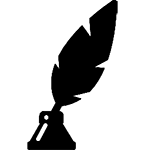
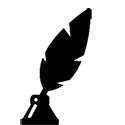
Added fade in and out methods and navbars

Changed region(s): [[0.144, 0.0, 0.792, 1.0]]

diff --git a/index.html b/index.html
@@ -24,7 +24,7 @@
 
 <body>
 	<!-- navbar -->
-	<nav class="navbar navbar-default navbar-fixed-top navbar-inverse">
+	<nav class="navbar navbar-default navbar-fixed-top navbar-inverse" id="topNavbar">
 		<div class="container-fluid">
 			<!-- Brand and toggle get grouped for better mobile display -->
 			<div class="navbar-header">
@@ -34,14 +34,14 @@
 					<span class="icon-bar"></span>
 					<span class="icon-bar"></span>
 				</button>
-				<a class="navbar-brand" href="#">Pieku</a>
+				<a class="navbar-brand" href="#"></a>
 			</div>
 
 			<!-- Collect the nav links, forms, and other content for toggling -->
 			<div class="collapse navbar-collapse" id="bs-example-navbar-collapse-1">
 				<ul class="nav navbar-nav navbar-right">
-					<li><a href="#">About </a></li>
-					<li><a href="#">Piekus</a></li>
+					<li><a href="#about">About </a></li>
+					<li><a href="#piekus">Piekus</a></li>
 					<li><a href="#">Contact</a></li>
 				</ul>
 			</div><!-- /.navbar-collapse -->
@@ -51,7 +51,7 @@
 	<!-- Header -->
 	<header id="top" class="header">
 		<div class="text-vertical-center">
-			<h1>Pieku</h1>
+			<h1 style="margin-top: 60px">Pieku</h1>
 			<h3>For the love of poetry and pie.</h3>
 			<br>
 			<a class="btn btn-dark btn-lg" href="#" role="button" data-toggle="modal" data-target="#myModal">Create a pieku!</a>
@@ -87,7 +87,7 @@
 				</div>
 
 	<!-- Description section -->
-	<div class="description-row text-center">
+	<div class="description-row text-center" id="about">
 		<div class="container-fluid">
 			<div class="col-md-2"></div>
 			<div class="col-md-2">
@@ -114,15 +114,46 @@
 			<div class="col-md-2"></div>
 		</div>
 	</div>
+	<hr id="piekus">
 
 	<!-- Pieku list layout -->
+	<div class="col-md-12 space"></div>
 	<div class="pieku-list-layout">
+		<h3 class="col-md-12 text-center">List of piekus</h3>
 		<div class="container-fluid">
-			<div class="col-md-2"></div>
-			<div class="col-md-2 pieku-list-nav"></div>
+			<!-- space -->
 			<div class="col-md-1"></div>
-			<div class="col-md-5" id="pieku-list-panel"></div> 
+			<!-- left-aligned navbar -->
+			<div class="col-md-3 pieku-list-nav">
+				<nav class="navbar navbar-default leftbar" id="leftNavbar" role="navigation">
+					<!-- Brand and toggle get grouped for better mobile display -->
+				  <div class="navbar-header leftbar">
+				    <button type="button" class="navbar-toggle" data-toggle="collapse" data-target=".navbar-ex1-collapse">
+				      <span class="sr-only">Toggle navigation</span>
+				      <span class="icon-bar"></span>
+				      <span class="icon-bar"></span>
+				      <span class="icon-bar"></span>
+				    </button>
+				    <a class="navbar-brand" href="#">Pieku</a>
+				  </div>
+				  <!-- Collect the nav links, forms, and other content for toggling -->
+				  <div class="collapse navbar-collapse navbar-ex1-collapse leftbar">
+				    <ul class="nav navbar-nav leftbar">
+				      <li><a href="">About</a></li>
+				      <li class="active"><a href="">Piekus</a></li>
+				      <li><a href="">Contact</a></li>
+				    </ul>
+				  </div><!-- /.navbar-collapse -->
+				</nav>
+			</div>
+			<!-- space -->
+			<div class="col-md-1"></div>
+			<!-- Where new pieku posts are added -->
+			<div class="col-md-4" id="pieku-list-panel"></div> 
+			<!-- Addition features of each post -->
 			<div class="col-md-2"></div>
+			<!-- space -->
+			<div class="col-md-1"></div>
 		</div>
 	</div>
 
@@ -140,20 +171,27 @@
 
 	<!-- underscore template -->
 	<script type="text/template" id="post-template">
-		<div class="panel panel-default">
-			<div class="panel-heading text-center">
+		<div class="panel panel-default col-md-12 text-center">
+			<div class="panel-heading">
 				<p>
 					<h1><%= title %></h1>
 				</p>
 				<p>	
 					<span><%= author %></span>
 				</p>
-			</div>	
-			<div class="panel-body piekuListImg">
-				<p>
-					<span><%= post %></span>
-				</p>
 			</div>
+			<table class="table table-condensed">
+				<div class= "panel-body">	
+					<tr>
+						<th>
+							<img class="piekuListImg"></img>
+						<th>
+						<th>
+							<span><%= post %></span>
+						</th>
+					</tr>
+				</div>
+			</table>
 		</div>
 	</script>
 

diff --git a/style.css b/style.css
@@ -6,6 +6,7 @@ body {
 }
 
 body {
+	position: relative;
     font-family: "Source Sans Pro","Helvetica Neue",Helvetica,Arial,sans-serif;
     color: black;
 }
@@ -15,6 +16,7 @@ body {
     display: table-cell;
     text-align: center;
     vertical-align: middle;
+    margin-top: 40px;
 }
 
 .text-vertical-center h1 {
@@ -72,6 +74,24 @@ hr.small {
     -o-background-size: cover;
 }
 
+.navbar>.container .navbar-brand, .navbar>.container-fluid .navbar-brand {
+	background: url(img/pieku-logo-set.png) no-repeat;
+	background-size: 100%;
+	margin-left: 5px;
+	margin-top: 8px;
+	margin-bottom: -10px;
+}
+
+.navbar>.container .navbar-brand, .navbar>.container-fluid .navbar-brand:hover,
+.navbar>.container .navbar-brand, .navbar>.container-fluid .navbar-brand:focus,
+.navbar>.container .navbar-brand, .navbar>.container-fluid .navbar-brand:active {
+	background: url(img/pieku-logo-hover.png) no-repeat;
+	background-size: 100%;
+	margin-left: 5px;
+	margin-top: 8px;
+	margin-bottom: -10px;
+}
+
 /*Decription section*/
 .description-row {
 	padding-top: 100px;
@@ -81,51 +101,95 @@ hr.small {
 #haikuImg {
 	background: url(img/haiku-icon.png) no-repeat;
 	display: block;	
-	width: 175px;
- 	height: 175px;
- 	margin-left: 51px;
-}
-
-#piekuImg {
-	background: url(img/pieku-icon.png) no-repeat;
-	display: block;	
- 	width: 200px;
-  	height: 200px;
-  	margin-left: 51px;
-  	background-size: 70%;
+	width: 125px;
+ 	height: 125px;
+ 	margin-left: 61px;
+ 	margin-bottom: 30px;
 }
 
 #pieImg {
 	background: url(img/pie-icon.png) no-repeat;	
 	display: block;		
-	width: 175px;
-  	height: 175px;
- 	margin-left: 28px; 
- 	background-size: 70%; 	
+	width: 125px;
+  	height: 125px;	
+  	margin-left: 54px;
+  	margin-bottom: -10px;
+  	margin-top: 30px;
+}
+
+#piekuImg {
+	background: url(img/pieku-icon.png) no-repeat;
+	display: block;	
+ 	width: 125px;
+  	height: 125px;
+  	margin-left: 64px;
+  	margin-bottom: -10px;
+  	margin-top: 30px;
 }
 
 p.symbol {
 	font-size: 4em;
-	margin-top: 40px;
+	margin-top: 70px;
+}
+
+#piekus {
+	margin-bottom: 50px;
+}
+
+/*navbar left*/
+@media (min-width: 768px) {
+	.navbar-collapse.leftbar {
+	height: auto;
+	border-top: 0;
+	box-shadow: none;
+	max-height: none;
+	padding-left:0;
+	padding-right:0;
+	}
+	.navbar-collapse.collapse.leftbar {
+	display: block !important;
+	width: auto !important;
+	padding-bottom: 0;
+	overflow: visible !important;
+	}
+	.navbar-collapse.in .leftbar{
+	overflow-x: visible;
+	}
+
+	.navbar.leftbar
+	{
+		max-width:200px;
+		margin-right: 0;
+		margin-left: 0;
+	}	
+
+	.navbar-nav.leftbar,
+	.navbar-nav.leftbar > li,
+	.navbar-left.leftbar,
+	.navbar-right.leftbar,
+	.navbar-header.leftbar
+	{float:none !important;}
+
 }
 
 /*pieku list layout section*/
+.space {
+	margin-top: 50px;
+}
 .piekuListImg {
 	background: url(img/pieku-icon.png) no-repeat;
+	border: 0;
 	display: block;	
- 	width: 200px;
-  	height: 200px;
-  	margin-top: 40px;
-  	margin-left: 51px;
-  	background-size: 70%;
+ 	width: 125px;
+  	height: 125px;
+  	border-top-color: none;
 }
-.panel-body {
-	margin-top: 80px;
-	display: block;
+
+table {
+	border-top-color: none;
 }
 
 .panel-body p {
-	width: 200px;
-	margin-left: 250px;
+	display: block;
 }
 

diff --git a/script.js b/script.js
@@ -3,8 +3,17 @@ $(function() {
 	// form to create new pieku post
 	var $newPost = $('#new-post');
 
+	// about button scrollspy
+	var$aboutBtn = $('#about-btn');
+
 	// element to hold the list of piekus
-	var $pieList = $('#pieku-list-panel')
+	var $pieList = $('#pieku-list-panel');
+
+	// Top navbar element
+	var $topNavbar = $('#topNavbar');
+
+	// Left navbar element
+	var $leftNavbar = $('#leftNavbar');
 	
 	// post template
 	var postTemplate = _.template($('#post-template').html());
@@ -51,5 +60,18 @@ $(function() {
 		$newPost[0].reset();
 		$('#post-desc').focus();
 	});
-	
+
+	// scroll event to fade out top navbar and fade in left navbar
+
+	$(window).scroll(function(event) {
+		var yScroll = $(window).scrollTop();
+		var yPiekus = $("#piekus").offset();
+		if(yScroll > yPiekus.top){
+			$topNavbar.fadeOut();
+			$leftNavbar.fadeIn();
+		} else {
+			$topNavbar.fadeIn();
+			$leftNavbar.fadeOut();
+		}
+	});
 });
